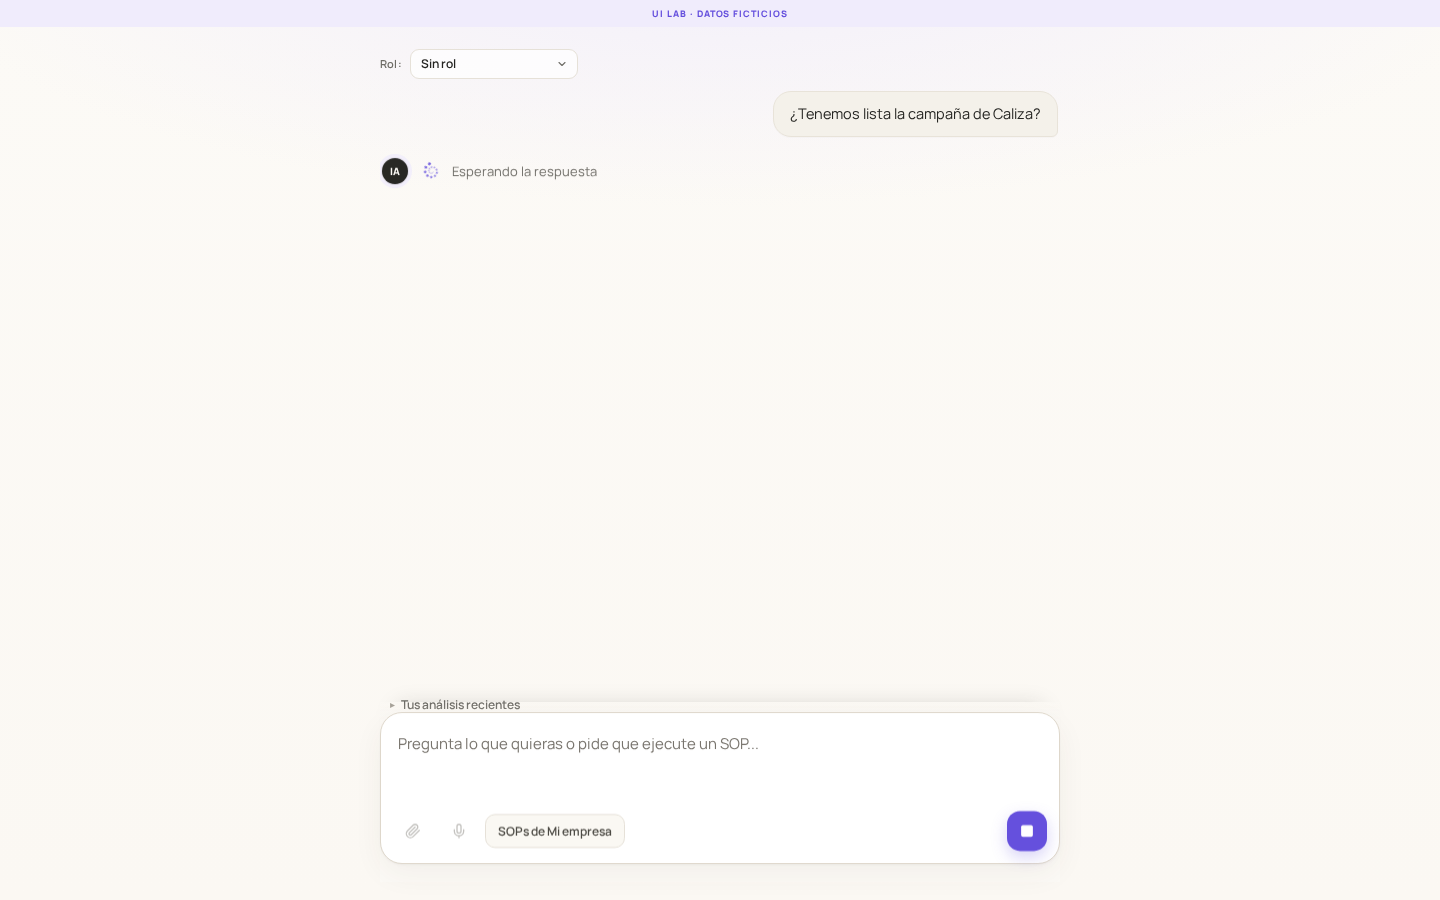
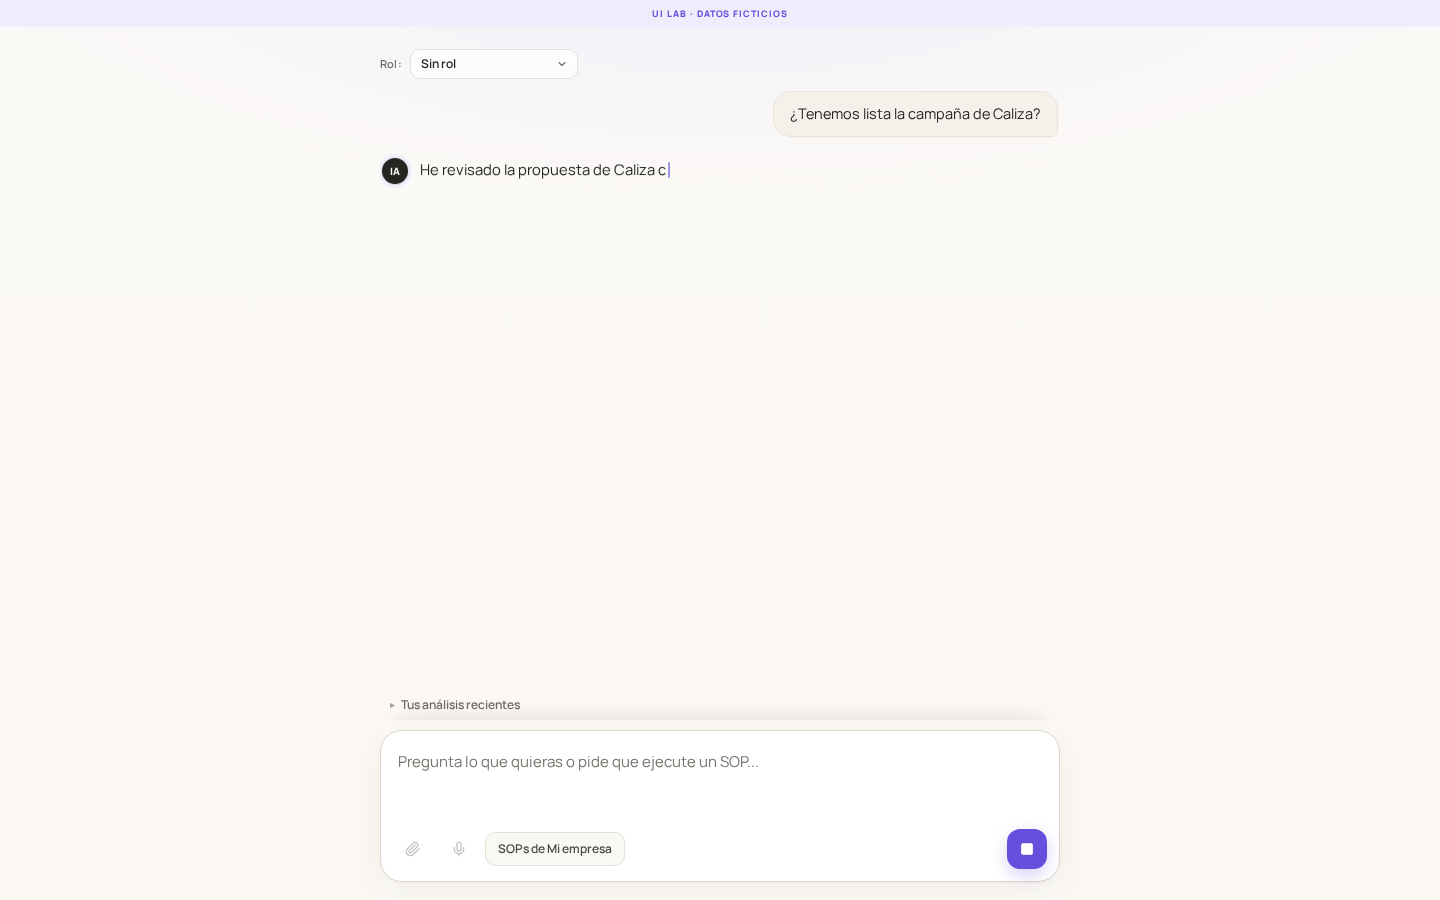
test(ui-lab): capture Chat UX V2 streaming before screenshots
Moves the streaming assertions ahead of slow screenshot calls, lengthens the fixture stream so QA is timing-stable, and refreshes the final component snapshot and evidence.

🤖 Generated with Codebuff

diff --git a/apps/ui-lab/docs/dashboards/09-chat/componentes-finales/apps/ui-lab/src/chat-ux-v2/useChatFixture.ts b/apps/ui-lab/docs/dashboards/09-chat/componentes-finales/apps/ui-lab/src/chat-ux-v2/useChatFixture.ts
@@ -37,7 +37,9 @@ export function useChatFixture(state: FixtureState, initialRole?: string) {
     const started = Date.now();
     setTools([{ id: "fixture-tool-running", name: "consultar_proyectos", status: "running", startedAt: started }]);
 
-    const chunks = streamingReply.match(/.{1,18}(\s|$)/g) ?? [streamingReply];
+          // Trozos pequeños para que la fixture mantenga el streaming durante los
+      // recorridos de QA (no es la velocidad del backend real).
+      const chunks = streamingReply.match(/.{1,12}(\s|$)/g) ?? [streamingReply];
     let buffer = "";
     let index = 0;
 
@@ -95,7 +97,7 @@ export function useChatFixture(state: FixtureState, initialRole?: string) {
           buffer += chunks[index];
           index += 1;
           setStreamBuf(buffer);
-          timers.current.push(setTimeout(tick, 46 + Math.round(Math.random() * 34)));
+                      timers.current.push(setTimeout(tick, 60 + Math.round(Math.random() * 40)));
         };
         tick();
       }, 520),

diff --git a/apps/ui-lab/src/chat-ux-v2/useChatFixture.ts b/apps/ui-lab/src/chat-ux-v2/useChatFixture.ts
@@ -37,7 +37,9 @@ export function useChatFixture(state: FixtureState, initialRole?: string) {
     const started = Date.now();
     setTools([{ id: "fixture-tool-running", name: "consultar_proyectos", status: "running", startedAt: started }]);
 
-    const chunks = streamingReply.match(/.{1,18}(\s|$)/g) ?? [streamingReply];
+          // Trozos pequeños para que la fixture mantenga el streaming durante los
+      // recorridos de QA (no es la velocidad del backend real).
+      const chunks = streamingReply.match(/.{1,12}(\s|$)/g) ?? [streamingReply];
     let buffer = "";
     let index = 0;
 
@@ -95,7 +97,7 @@ export function useChatFixture(state: FixtureState, initialRole?: string) {
           buffer += chunks[index];
           index += 1;
           setStreamBuf(buffer);
-          timers.current.push(setTimeout(tick, 46 + Math.round(Math.random() * 34)));
+                      timers.current.push(setTimeout(tick, 60 + Math.round(Math.random() * 40)));
         };
         tick();
       }, 520),
